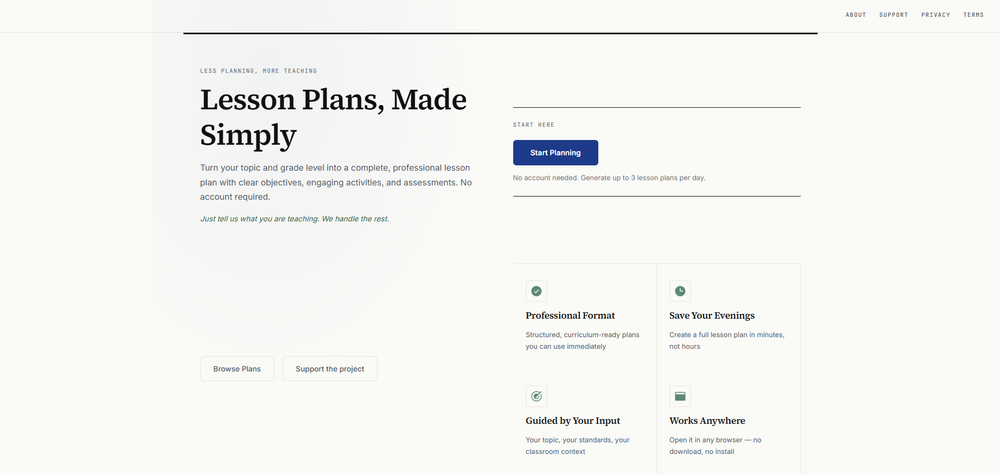
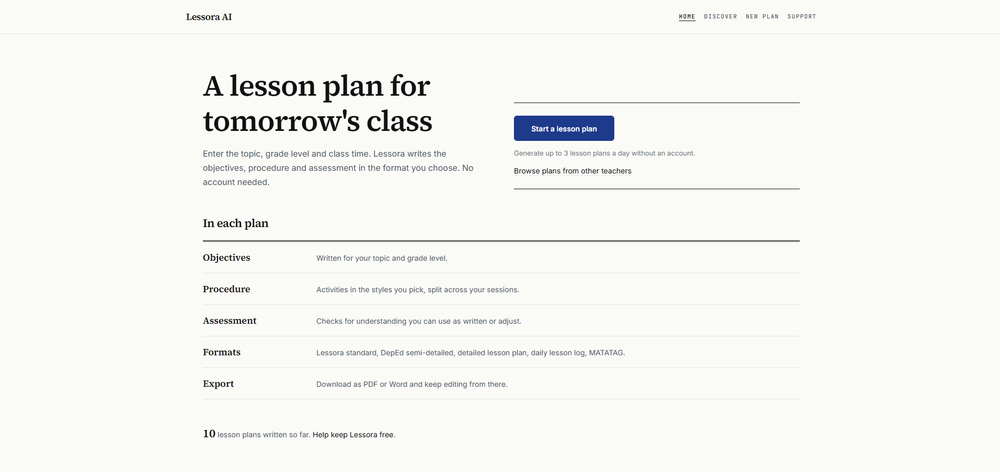
chore: update Lessora screenshot to the current landing page

diff --git a/app/_lib/projects.ts b/app/_lib/projects.ts
@@ -27,7 +27,7 @@ export const projects: readonly Project[] = [
     demoLink: 'https://lessora.ajgenabio.me/',
     linkLabel: 'Open Lessora',
     thumbnail: '/assets/lessora.png',
-    thumbnailAlt: 'Lessora landing page with the headline "Lesson Plans, Made Simply"',
+    thumbnailAlt: 'Lessora landing page with the headline "A lesson plan for tomorrow\'s class"',
     year: '2026',
     role: 'Solo founder and developer',
     category: 'featured',

diff --git a/app/page.tsx b/app/page.tsx
@@ -135,7 +135,7 @@ export default function Home() {
               src="/assets/lessora.png"
               alt=""
               width={1000}
-              height={475}
+              height={472}
               priority
               sizes="(min-width: 1024px) 50vw, 90vw"
               className="w-[88%] h-auto rounded-[var(--radius-ui)] border border-rule shadow-[0_18px_40px_-24px_rgb(21_23_28/0.45)]"
